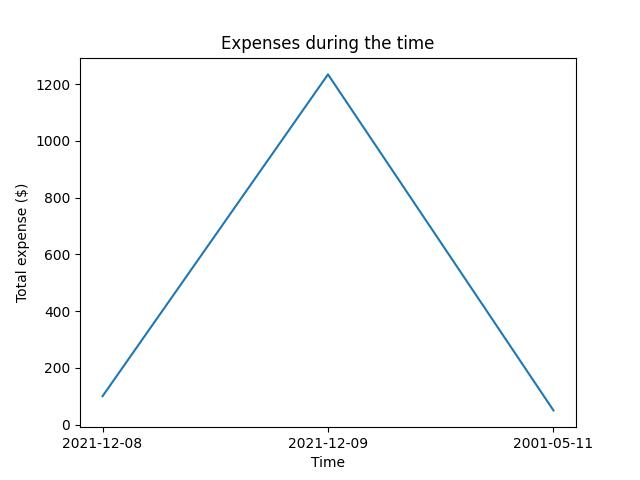
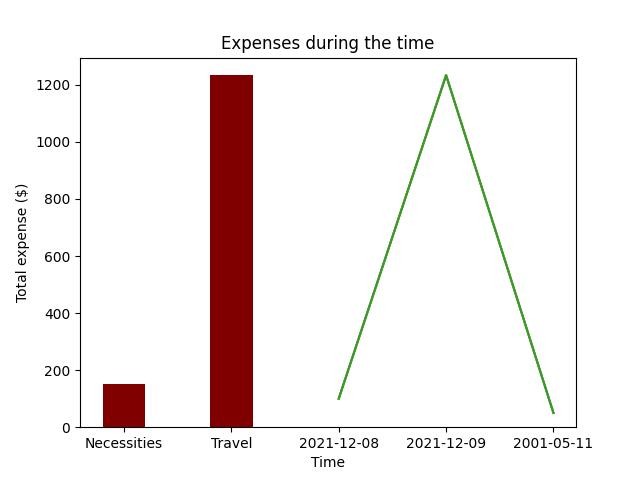
.

diff --git a/templates/main_page.html b/templates/main_page.html
@@ -30,24 +30,26 @@
         </style>
 </head>
 <body>
-    <div class="topnav">
-        <a class="active" href="/">Home</a>
-        <a href="{{ url_for('new_entry') }}">New Entry</a>
-        <a href="{{ url_for('show_all') }}">Show All</a>
-    </div>
+  <div class="topnav">
+    <a class="active" href="/">Home</a>
+    <a href="{{ url_for('new_entry') }}">New Entry</a>
+    <a href="{{ url_for('show_all') }}">Show All</a>
+    <a href="{{ url_for('graph') }}">Graph Data</a>
+    <a href="{{ url_for('delete') }}">Delete Data</a>
+</div>
 
     <h1>Expense Tracker</h1>
-    <p>
-        <a href="{{ url_for('new_entry') }}">Input new expense here!</a>
-    </p>
-    <p>
-        <a href="{{ url_for('show_all') }}">Check all of your expense here!</a>
-    </p>
-    <p>
-      <a href="{{ url_for('graph') }}">Check out all graphs here!</a>
-    </p>
-    <p>
-      <a href="{{ url_for('delete') }}">Reset all data</a>
-    </p>
+    <form method="get" action="{{ url_for('new_entry') }}">
+      <button type="submit">Input New Expense</button>
+    </form>
+    <form method="get" action="{{ url_for('show_all') }}">
+      <button type="submit">Show All Expenses</button>
+    </form>
+    <form method="get" action="{{ url_for('graph') }}">
+      <button type="submit">Show Grpahs</button>
+    </form>
+    <form method="get" action="{{ url_for('delete') }}">
+      <button type="submit">Erase Data</button>
+    </form>
 </body>
 </html>

diff --git a/templates/delete.html b/templates/delete.html
@@ -34,6 +34,8 @@
         <a class="active" href="/">Home</a>
         <a href="{{ url_for('new_entry') }}">New Entry</a>
         <a href="{{ url_for('show_all') }}">Show All</a>
+        <a href="{{ url_for('graph') }}">Graph Data</a>
+        <a href="{{ url_for('delete') }}">Delete Data</a>
     </div>
 
     <h1>Delete all exisistng data?</h1>

diff --git a/templates/new_entry_form.html b/templates/new_entry_form.html
@@ -36,6 +36,8 @@
       <a class="active" href="/">Home</a>
       <a href="{{ url_for('new_entry') }}">New Entry</a>
       <a href="{{ url_for('show_all') }}">Show All</a>
+      <a href="{{ url_for('graph') }}">Graph Data</a>
+      <a href="{{ url_for('delete') }}">Delete Data</a>
   </div>
 
     <h1>Please input the expense</h1>

diff --git a/templates/graph.html b/templates/graph.html
@@ -35,6 +35,8 @@
         <a class="active" href="/">Home</a>
         <a href="{{ url_for('new_entry') }}">New Entry</a>
         <a href="{{ url_for('show_all') }}">Show All</a>
+        <a href="{{ url_for('graph') }}">Graph Data</a>
+        <a href="{{ url_for('delete') }}">Delete Data</a>
     </div>
   
       <h1>Results</h1>

diff --git a/templates/entry_fail.html b/templates/entry_fail.html
@@ -35,6 +35,8 @@
       <a class="active" href="/">Home</a>
       <a href="{{ url_for('new_entry') }}">New Entry</a>
       <a href="{{ url_for('show_all') }}">Show All</a>
+      <a href="{{ url_for('graph') }}">Graph Data</a>
+      <a href="{{ url_for('delete') }}">Delete Data</a>
   </div>
 
     <h1>Results</h1>

diff --git a/templates/entry_success.html b/templates/entry_success.html
@@ -35,6 +35,8 @@
       <a class="active" href="/">Home</a>
       <a href="{{ url_for('new_entry') }}">New Entry</a>
       <a href="{{ url_for('show_all') }}">Show All</a>
+      <a href="{{ url_for('graph') }}">Graph Data</a>
+      <a href="{{ url_for('delete') }}">Delete Data</a>
   </div>
 
     <h1>Results</h1>

diff --git a/templates/results.html b/templates/results.html
@@ -47,6 +47,8 @@
       <a class="active" href="/">Home</a>
       <a href="{{ url_for('new_entry') }}">New Entry</a>
       <a href="{{ url_for('show_all') }}">Show All</a>
+      <a href="{{ url_for('graph') }}">Graph Data</a>
+      <a href="{{ url_for('delete') }}">Delete Data</a>
   </div>
 
     <h1>Results</h1>

diff --git a/app.py b/app.py
@@ -5,7 +5,7 @@ import sqlite3 as sql
 from table import ItemTable, Item, create_items
 from data import pull_table
 from line_chart import time_plot
-from bar_chart import bar_graph
+from bar_chart import filt, convert_dict, bar_graph
 
 conn = sql.connect("database.db")
 c = conn.cursor()
@@ -71,9 +71,11 @@ def delete():
 @app.route("/graph")
 def graph():
     """""" 
-    data = pull_table("expenses")
-    filtered_data = bar_graph.filt(data)
-    processed_data = bar_graph.convert_dict(filtered_data)
+    with sql.connect("database.db") as conn:
+        c = conn.cursor()
+        data = c.execute(f"SELECT * FROM expenses").fetchall()
+    filtered_data = filt(data)
+    processed_data = convert_dict(filtered_data)
     bar_graph(processed_data)
     time_plot(data)
     return render_template("graph.html")

diff --git a/bar_chart.py b/bar_chart.py
@@ -26,11 +26,11 @@ def bar_graph(expenses):
     # plt.show()
     plt.savefig("output1.jpg")
 
-data = pull_table("expenses")
-print(data)
-filtered_data = filt(data)
-# print(filtered_data)
-processed_data = convert_dict(filtered_data)
-# print(processed_data)
-bar_graph(processed_data)
+# data = pull_table("expenses")
+# print(data)
+# filtered_data = filt(data)
+# # print(filtered_data)
+# processed_data = convert_dict(filtered_data)
+# # print(processed_data)
+# bar_graph(processed_data)
 

diff --git a/line_chart.py b/line_chart.py
@@ -16,5 +16,5 @@ def time_plot(expenses):
     # plt.show()
     plt.savefig("output2.jpg")
 
-data = pull_table("expenses")
-time_plot(data)
+# data = pull_table("expenses")
+# time_plot(data)
